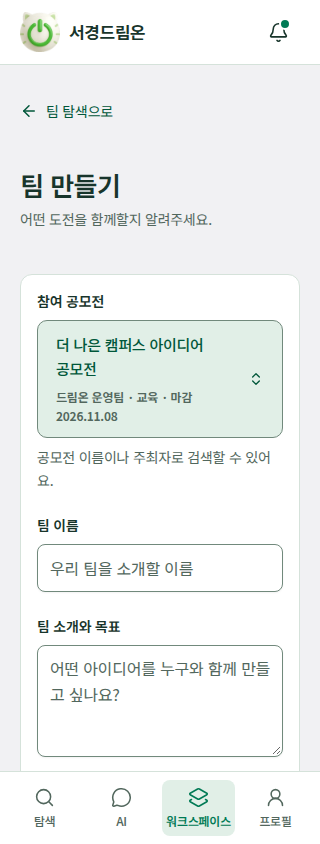
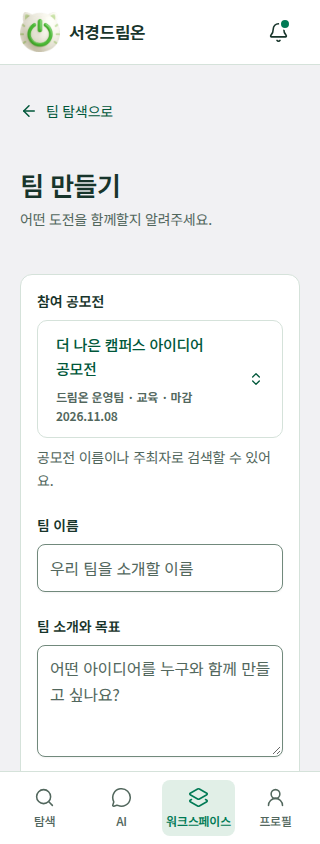
refactor(design): reserve green surfaces for selected states

Changed region(s): [[0.0938, 0.3697, 0.9062, 0.5237]]

diff --git a/design-reference/src/features/design-preview/service-ui.css b/design-reference/src/features/design-preview/service-ui.css
@@ -158,8 +158,9 @@
   line-height: 1.4;
 }
 .dreamon-preview .preview-tabs a[aria-current] {
-  background: var(--card);
-  color: var(--primary);
+  background: var(--primary);
+  color: var(--primary-foreground);
+  font-weight: 600;
   box-shadow: 0 1px 3px color-mix(in srgb, var(--foreground) 12%, transparent);
 }
 .dreamon-preview .preview-search {
@@ -376,7 +377,7 @@
   gap: 12px;
   padding: 10px 12px;
   border-radius: 6px;
-  background: var(--card);
+  background: var(--muted);
   font-size: 13px;
   line-height: 20px;
 }
@@ -427,16 +428,19 @@
 }
 .dreamon-preview .preview-card:is(a):focus-visible {
   background: var(--surface-card-hover);
+  border-color: var(--primary);
 }
 @media (hover: hover) and (pointer: fine) {
   .dreamon-preview .preview-card:is(a):hover {
     background: var(--surface-card-hover);
+    border-color: var(--primary);
     box-shadow: var(--card-hover-shadow);
     transform: translateY(-2px);
   }
 }
 .dreamon-preview .preview-card:is(a):active {
   background: var(--surface-card-pressed);
+  border-color: var(--primary);
   box-shadow: var(--panel-shadow);
   transform: translateY(1px);
 }
@@ -862,14 +866,17 @@
 }
 .dreamon-preview .workspace-applicant-row:focus-visible {
   background: var(--surface-card-hover);
+  border-color: var(--primary);
 }
 @media (hover: hover) and (pointer: fine) {
   .dreamon-preview .workspace-applicant-row:hover {
     background: var(--surface-card-hover);
+    border-color: var(--primary);
   }
 }
 .dreamon-preview .workspace-applicant-row:active {
   background: var(--surface-card-pressed);
+  border-color: var(--primary);
 }
 .dreamon-preview .workspace-team-enter,
 .dreamon-preview .preview-action-panel .preview-list a:hover {

diff --git a/design-reference/src/features/design-preview/preview-tokens.css b/design-reference/src/features/design-preview/preview-tokens.css
@@ -21,7 +21,7 @@
   --surface-control: var(--card);
   --surface-chrome: var(--card);
   --surface-canvas: #f1f1f3;
-  --surface-card: #d4e7db;
+  --surface-card: #ffffff;
   --surface-card-hover: #bdd9c7;
   --surface-card-pressed: #b2d0bd;
   --card-muted-foreground: #40594a;

diff --git a/design-reference/src/features/design-preview/information-hierarchy.css b/design-reference/src/features/design-preview/information-hierarchy.css
@@ -26,7 +26,7 @@
 .dreamon-preview .preview-info-value {
   min-width: 0;
   margin: 0;
-  color: var(--foreground);
+  color: var(--accent-foreground);
   font-size: 16px;
   font-weight: 600;
   line-height: 1.5;

diff --git a/docs/design/tokens.md b/docs/design/tokens.md
@@ -1,32 +1,32 @@
 # 스타일과 컴포넌트
 
-모바일 공식 디자인은 기존 중립 회색 배경과 녹색 카드, 에메랄드 주요 버튼을 사용합니다. 서경대학교 홈페이지의 녹색 강조와 밝은 표면을 참고해 본문·조작·상태의 역할을 구분합니다. 카드 자체의 색과 그림자로 배경과의 구분을 강화하고, 작은 글자와 주요 행동에는 명암 대비를 확보한 짙은 녹색을 적용합니다. 색상과 수치는 [preview-tokens.css](../../design-reference/src/features/design-preview/preview-tokens.css)가 원본이며 이 문서는 사용 의도를 설명합니다.
+모바일 공식 디자인은 중립 회색 배경과 흰 카드, 에메랄드 주요 버튼을 사용합니다. 서경대학교 홈페이지의 녹색 강조와 밝은 표면을 참고해 본문·조작·상태의 역할을 구분합니다. 기본 카드는 흰 면과 아래쪽 그림자로 구분하고, 선택한 탐색 탭·카드의 hover와 누름·정보의 값에 녹색을 적용합니다. 색상과 수치는 [preview-tokens.css](../../design-reference/src/features/design-preview/preview-tokens.css)가 원본이며 이 문서는 사용 의도를 설명합니다.
 
 ## 표면과 상태
 
 | 용도 | 토큰 · 현재 값 | 적용 |
 | --- | --- | --- |
 | 화면 바탕 | `--surface-canvas: #f1f1f3` | 스크롤 화면의 배경 |
-| 콘텐츠 카드 | `--surface-card: #d4e7db` | 공모전·팀·사람·AI 결과 카드, 프로필·내용 패널과 지원자 행 |
-| 카드 hover·포커스 | `--surface-card-hover: #bdd9c7` | 조작 가능한 카드에 커서·키보드 포커스가 올라온 상태 |
-| 누른 카드 | `--surface-card-pressed: #b2d0bd` | 카드의 누름 상태 |
-| 입력·상단·팝업·폼 | `--card`, `--background: #ffffff` | 기본 shadcn 표면과 조작 영역, 카드 안 공모전 정보 |
-| 카드 안 보조 면 | `--muted: #f2f7f4` | 카드의 보조 정보 |
+| 콘텐츠 카드 | `--surface-card: #ffffff` | 공모전·팀·사람·AI 결과 카드, 프로필·내용 패널과 지원자 행의 기본 면 |
+| 카드 hover·포커스 | `--surface-card-hover: #bdd9c7` | 조작 가능한 카드에 커서·키보드 포커스가 올라온 상태. 녹색 테두리와 함께 표시 |
+| 누른 카드 | `--surface-card-pressed: #b2d0bd` | 카드의 누름 상태. 녹색 테두리 유지 |
+| 입력·상단·팝업·폼 | `--card`, `--background: #ffffff` | 기본 shadcn 표면과 조작 영역 |
+| 카드 안 보조 면 | `--muted: #f2f7f4` | 공모전 카드의 참가 대상·접수 마감 정보 상자 |
 | 눌린 면·탭 바탕 | `--surface-sunken: #dfeae3` | 탭 레일·설정·사용자 메시지 등 |
 | 본문 | `--foreground: #18352b` | 제목·본문 |
-| 주요 행동·선택 | `--primary: #007a55`, hover `#00573a` | 주요 버튼·선택한 탭·탐색 항목 |
+| 주요 행동·선택 | `--primary: #007a55`, hover `#00573a` | 주요 버튼·선택한 탐색 탭·탐색 항목. 선택 탭은 흰 글자·600 두께 |
 | 선택한 면 | `--accent: #e1efe7`, 글자 `#00573a` | 선택·hover 영역 |
 | AI 보조 강조 | `--ai-soft: #f0edf8`, `--ai-ink: #453587` | AI 시작 아이콘의 보조색 |
 | 보조 텍스트 | `--muted-foreground: #52675d` | 흰 조작 면의 설명·부가 정보 |
-| 카드 안 보조 텍스트 | `--card-muted-foreground: #40594a` | 녹색 카드·내용 패널·지원자 행에서 보조 텍스트 토큰을 덮어씀 |
-| 카드 안 링크 | `--accent-foreground: #00573a` | 상세 보기·팀 공간으로 등 카드 안 이동 행동 |
+| 카드 안 보조 텍스트 | `--card-muted-foreground: #40594a` | 카드·내용 패널·지원자 행에서 보조 텍스트 토큰을 덮어씀. hover·누름 상태에서도 대비 유지 |
+| 읽기 전용 정보의 값·카드 안 링크 | `--accent-foreground: #00573a` | 날짜·대상·인원·역할 등 값과 상세 보기·팀 공간으로 이동 행동 |
 | 경계·입력 | `--border: #d5e2da`, `--input: #71897c` | 카드와 조작 요소의 경계 |
 | 포커스 | `--ring: #007a55` | 키보드 포커스 표시 |
 | 성공·확정 | `--leaf-soft: #f0fdf4`, `--leaf-ink: #166534` | 성공·완료 상태 |
 | 주의·확인 | `--warning-soft: #fffbeb`, `--warning-ink: #92400e` | 확인 필요·주의 상태 |
 | 오류·위험 행동 | `--coral-soft: #fef2f2`, `--coral-ink: #b91c1c` | 오류·파괴적 행동 |
 
-루트 [globals.css](../../design-reference/src/styles/globals.css)의 기본값만 가져오면 공식 화면의 표면 대비가 달라집니다. 모바일 범위의 토큰 덮어쓰기와 [service-ui.css](../../design-reference/src/features/design-preview/service-ui.css)의 실제 적용을 함께 확인합니다. 카드 바탕과 화면 바탕을 같은 색으로 합치지 않고, 상태는 색상 외에 문구·아이콘으로도 구분합니다. 주요 버튼의 흰 글자 대비는 5.36:1입니다. 카드 보조 글자는 기본·hover·누름 면에서 각각 5.92:1·5.07:1·4.61:1이며, 흰 조작 면의 기본 보조 글자는 6.07:1입니다. 기본색은 [공식 홈페이지 CSS 확인 기록](assets.md)을 참고합니다.
+루트 [globals.css](../../design-reference/src/styles/globals.css)의 기본값만 가져오면 공식 화면의 표면 대비가 달라집니다. 모바일 범위의 토큰 덮어쓰기와 [service-ui.css](../../design-reference/src/features/design-preview/service-ui.css)의 실제 적용을 함께 확인합니다. 카드 바탕과 화면 바탕을 같은 색으로 합치지 않고, 상태는 색상 외에 문구·아이콘으로도 구분합니다. 주요 버튼·선택 탭의 흰 글자 대비는 5.36:1입니다. 카드 보조 글자는 기본·hover·누름 면에서 각각 7.65:1·5.07:1·4.61:1이며, 정보의 녹색 값은 각각 8.66:1·5.74:1·5.22:1입니다. 흰 조작 면의 기본 보조 글자는 6.07:1입니다. 기본색은 [공식 홈페이지 CSS 확인 기록](assets.md)을 참고합니다.
 
 ## 간격·글꼴·입체감
 
@@ -39,14 +39,14 @@
 | 카드·패널 반경 | 12px |
 | 페이지 제목 | 26px, 실제 계층은 화면별 스타일 확인 |
 | 읽기 전용 정보의 키 | 13px·500, 보조 텍스트 색상 |
-| 읽기 전용 정보의 값 | 16px·600, 본문 색상과 숫자 고정 폭 |
+| 읽기 전용 정보의 값 | 16px·600, `--accent-foreground: #00573a`와 숫자 고정 폭 |
 | 긴 경험·자기소개 | 16px·400, 줄 높이 1.7 |
 | 폰트 | `DreamOn Noto` / Noto Sans KR |
 | 주요 조작 영역 | 버튼·아이콘·탭 등에서 최소 44px을 확보 |
 
-카드는 두 겹의 아래쪽 그림자(`--card-shadow`: 3px·12px 오프셋)로 회색 바탕에서 떠 있는 높이를 표현하고 작은 패널은 `--panel-shadow`를 사용합니다. 색은 화면 배경 대신 콘텐츠 카드에 적용하며, 공모전 카드의 대상·마감 정보는 흰 면으로 구분합니다. 조작 가능한 카드는 hover·키보드 포커스에서 더 짙은 녹색으로 상태를 표시합니다. hover에서는 높이·그림자가 커지고, 누르면 그림자가 낮아집니다. 정확한 그림자와 상태별 적용은 토큰·스타일 원본을 참조합니다. 모바일에서 hover에만 중요한 정보나 행동을 숨기지 않습니다. 장식용 그림자보다 표면 대비·여백·제목 계층을 우선하며, 버튼의 강조를 위해 그림자를 반복 추가하지 않습니다.
+카드는 두 겹의 아래쪽 그림자(`--card-shadow`: 3px·12px 오프셋)로 회색 바탕에서 떠 있는 높이를 표현하고 작은 패널은 `--panel-shadow`를 사용합니다. 흰 카드 안에서 공모전의 대상·마감 정보는 옅은 녹색 면으로 구분합니다. 조작 가능한 카드는 hover·키보드 포커스에서 녹색 면과 테두리로 상태를 표시합니다. hover에서는 높이·그림자가 커지고, 누르면 면이 더 짙어지며 그림자가 낮아집니다. 정확한 그림자와 상태별 적용은 토큰·스타일 원본을 참조합니다. 모바일에서 hover에만 중요한 정보나 행동을 숨기지 않습니다. 장식용 그림자보다 표면 대비·여백·제목 계층을 우선하며, 버튼의 강조를 위해 그림자를 반복 추가하지 않습니다.
 
-[information-hierarchy.css](../../design-reference/src/features/design-preview/information-hierarchy.css)는 공모전·팀 정보, 프로필과 지원자 정보의 키·값·설명을 구분합니다. 짧은 값은 강조하되 긴 문단과 빈 상태 안내 전체를 굵게 만들지 않습니다. 상세 정보는 라벨 열과 값 열을 맞추고 긴 값은 줄바꿈하며, 폼 입력 라벨과 실제 섹션 제목은 이 규칙으로 바꾸지 않습니다.
+[information-hierarchy.css](../../design-reference/src/features/design-preview/information-hierarchy.css)는 공모전·팀 정보, 프로필과 지원자 정보의 키·값·설명을 구분합니다. 키는 보조색으로 유지하고 짧은 값은 진한 녹색으로 강조하며, 긴 문단과 빈 상태 안내 전체를 굵게 만들지 않습니다. 긴 설명의 본문 색상은 유지합니다. 상세 정보는 라벨 열과 값 열을 맞추고 긴 값은 줄바꿈하며, 폼 입력 라벨과 실제 섹션 제목은 이 규칙으로 바꾸지 않습니다.
 
 [폰트 파일](../../design-reference/public/fonts/NotoSansKR.ttf)과 [OFL 라이선스](../../design-reference/public/fonts/OFL.txt), 카드의 공모전 커버·로고·파워프렌즈 캐릭터는 레퍼런스의 로컬 자산입니다. 원본 및 생성 이미지의 출처는 [자산 문서](assets.md)를 따릅니다. [PreviewUi](../../design-reference/src/features/design-preview/PreviewUi.tsx)의 사용처를 확인하고 파일·라이선스를 함께 유지합니다. 실제 인물 사진·공고 포스터로 오인해 서비스 데이터의 출처로 사용하지 않습니다.
 

diff --git a/docs/design/verification.md b/docs/design/verification.md
@@ -1,25 +1,26 @@
 # 공식 디자인 검증 기록
 
-2026-10-18 저장소 이관·기능 명세 정합 작업 이후, 로고·마스코트 선택·기본 커버에 이어 카드 대비·탐색 아이콘과 필터 팝업·키/값 정보 계층을 검토했습니다. 재생성 가능한 검증 원본은 [단위·컴포넌트 테스트](../../design-reference/src/features/design-preview/ExplorePages.test.tsx)와 [브라우저 검사 스크립트](../../design-reference/scripts/reference-check.cjs)이며, 화면은 같은 변경 PR에 포함된 코드 기준입니다.
+2026-10-19 색상 조정에서는 회색 배경을 유지하고, 흰 기본 카드·녹색 hover와 누름·녹색 선택 탭·녹색 정보 값을 적용했습니다. 2026-10-18의 저장소 이관·기능 명세 정합·마스코트·탐색 필터 검증을 바탕으로 하는 CSS 변경이며, 새로운 동작 테스트는 추가하지 않았습니다. 재생성 가능한 검증 원본은 [단위·컴포넌트 테스트](../../design-reference/src/features/design-preview/ExplorePages.test.tsx)와 [브라우저 검사 스크립트](../../design-reference/scripts/reference-check.cjs)이며, 화면은 같은 변경 PR에 포함된 코드 기준입니다.
 
 ## 실행 결과
 
 | 검사 | 결과 |
 | --- | --- |
-| 고정 의존성 `npm ci` | 이전 검증에서 성공. 이번 카드·탐색 개선에서는 의존성 변경 없이 기존 설치를 사용했으며 재실행하지 않음 |
-| `npm test` | 9개 파일, 107개 테스트 통과 |
-| ESLint·Prettier | 통과 |
-| TypeScript·production build | 통과. 단일 JS 청크 675.38kB 경고는 남아 있으며 제품 구현 시 분할·실제 네트워크 성능 검증 필요 |
-| `npm run check:ui` | Chromium 320×844·390×844·430×844 통과. 기존 흐름에 필터 취소·적용·초기화와 워크스페이스 중복 안내 제거 확인을 추가 |
-| 브라우저 확인 | 비로그인 사람 차단, 마감 공고 읽기 전용, 생성·프로필, 선발 즉시 팀원·정원 반영, AI 실패/재시도, 알림 실패/재시도 |
-| 별도 모바일 흐름 | 필수 입력 오류·원래 팀 복귀, 모집에 없는 역할 지원, 취소 후 새 지원, 공식 인원 오류, 개인 공모전 준비 팀, 공개 스위치·학사 연쇄 선택·포트폴리오 저장 |
-| 마스코트·기본 커버 | 5종 원본 PNG·선택/취소/저장·공개 프로필 반영, 이미지 없음/로드 실패 fallback, 320·390·430px 브라우저 확인 |
-| 키보드·작은 높이 | 마스코트·탐색 필터의 화살표 키·Escape·트리거 포커스 복귀 확인. 320×568에서 두 선택 목록의 스크롤·하단 버튼 접근, 탐색 필터 적용·취소 확인 |
-| 색상 대비 | 주요 버튼 흰 글자 5.36:1. 카드 보조 글자 #40594a는 기본·hover·누름 면에서 5.92:1·5.07:1·4.61:1, 흰 조작 면의 기본 보조 글자는 6.07:1. 모든 화면 전체의 자동 접근성 감사 완료를 뜻하지 않음 |
-| 카드와 배경 | 기존 중립 회색 배경 #f1f1f3 유지, 카드 #d4e7db·hover #bdd9c7·누름 #b2d0bd, 아래쪽 그림자·흰 정보 면을 적용 |
-| 탐색 필터 | Drawer 초안 선택 후 취소 시 URL 유지, 적용 시 URL 반영·다시 열기 복원. 정렬만 변경해도 초기화 아이콘으로 기본 조건 복원하는 컴포넌트 테스트 통과 |
-| 정보 계층·중복 안내 | 공모전·공고·내 프로필·공개 프로필·워크스페이스·팀 공간·지원자 검토 7개 경로를 320·390·430px에서 확인. 키 13px/500, 값 16px/600, 긴 설명 16px/400. 팀 목록 중복 정원 문구 제거와 기존 정원 정책 유지 |
-| 레퍼런스 화면 | 확인한 폭에서 가로 넘침·브라우저 런타임 오류 없음 |
+| 고정 의존성 `npm ci` | 이전 검증에서 성공. 이번 색상 조정에서는 의존성 변경 없이 기존 설치를 사용했으며 재실행하지 않음 |
+| `npm test` | 직전 변경에서 9개 파일·107개 테스트 통과. 이번 CSS 변경에서는 전체 Vitest를 재실행하지 않음 |
+| ESLint | 전체 검사는 직전 변경에서 통과. 이번에 변경한 캡처 스크립트 검사 통과 |
+| Prettier | 이번 색상 조정에서 통과 |
+| TypeScript·production build | 이번 색상 조정에서 통과. 단일 JS 청크 675.38kB 경고는 남아 있으며 제품 구현 시 분할·실제 네트워크 성능 검증 필요 |
+| `npm run check:ui` | 이번 색상 조정에서 Chromium 320×844·390×844·430×844 통과. 기존 흐름·필터 취소/적용/초기화·워크스페이스 요약을 함께 확인 |
+| 브라우저 확인 | 직전 변경에서 비로그인 사람 차단, 마감 공고 읽기 전용, 생성·프로필, 선발 즉시 팀원·정원 반영, AI 실패/재시도, 알림 실패/재시도 확인 |
+| 별도 모바일 흐름 | 이전 검증에서 필수 입력 오류·원래 팀 복귀, 모집에 없는 역할 지원, 취소 후 새 지원, 공식 인원 오류, 개인 공모전 준비 팀, 공개 스위치·학사 연쇄 선택·포트폴리오 저장 확인 |
+| 마스코트·기본 커버 | 이전 검증에서 5종 원본 PNG·선택/취소/저장·공개 프로필 반영, 이미지 없음/로드 실패 fallback, 320·390·430px 브라우저 확인 |
+| 키보드·작은 높이 | 직전 변경에서 마스코트·탐색 필터의 화살표 키·Escape·트리거 포커스 복귀 확인. 320×568에서 두 선택 목록의 스크롤·하단 버튼 접근, 탐색 필터 적용·취소 확인 |
+| 색상 대비 | 주요 버튼·선택 탭 흰 글자 5.36:1. 카드 보조 글자 #40594a는 기본·hover·누름 면에서 7.65:1·5.07:1·4.61:1, 녹색 값 #00573a는 각각 8.66:1·5.74:1·5.22:1. 흰 조작 면의 기본 보조 글자는 6.07:1. 모든 화면 전체의 자동 접근성 감사 완료를 뜻하지 않음 |
+| 카드와 배경 | 배경 #f1f1f3 유지. 기본 카드 #ffffff, hover #bdd9c7·누름 #b2d0bd와 녹색 테두리, 아래쪽 그림자 적용. 카드 안 공모전 정보 면은 #f2f7f4 |
+| 탐색 탭·필터 | 선택 탭은 #007a55 바탕·흰 글자·600 두께. 필터의 초안 취소·적용·URL 복원과 정렬만 변경한 상태의 초기화는 직전 컴포넌트 테스트에서 통과 |
+| 정보 계층·중복 안내 | 키 13px/500 보조색 유지, 값 16px/600을 #00573a로 변경, 긴 설명 16px/400·본문 색상 유지. 7개 정보 화면의 320·390·430px 배치와 팀 목록 중복 안내 제거는 직전 변경에서 확인했으며 정원 정책은 유지 |
+| 레퍼런스 화면 | 모바일 320·390·430px에서 가로 넘침·브라우저 런타임 오류 없음. 기본 화면은 포인터를 카드 밖에 둔 상태로, hover는 별도 화면으로 기록 |
 | 문서 | 최신 스크린샷을 포함한 원본 링크·앵커, VitePress 빌드·생성 링크·자산 검사 통과. 문서 도구는 변경하지 않아 이전에 통과한 도구 테스트는 재실행하지 않음 |
 
 브라우저 검사는 설치된 Playwright/Chromium을 환경 변수로 지정해 실행했습니다. 일반 설치·수동 실행 명령은 [인계 문서](handoff.md#verification-commands)를 따릅니다. 실제 기기의 키보드·보조 기술, 서버 권한, 다중 사용자 동시 선발, 영구 저장과 실제 LLM 품질은 검증 대상이 아닙니다. 이 결과는 기능 명세 AC의 제품 구현 완료를 의미하지 않습니다.
